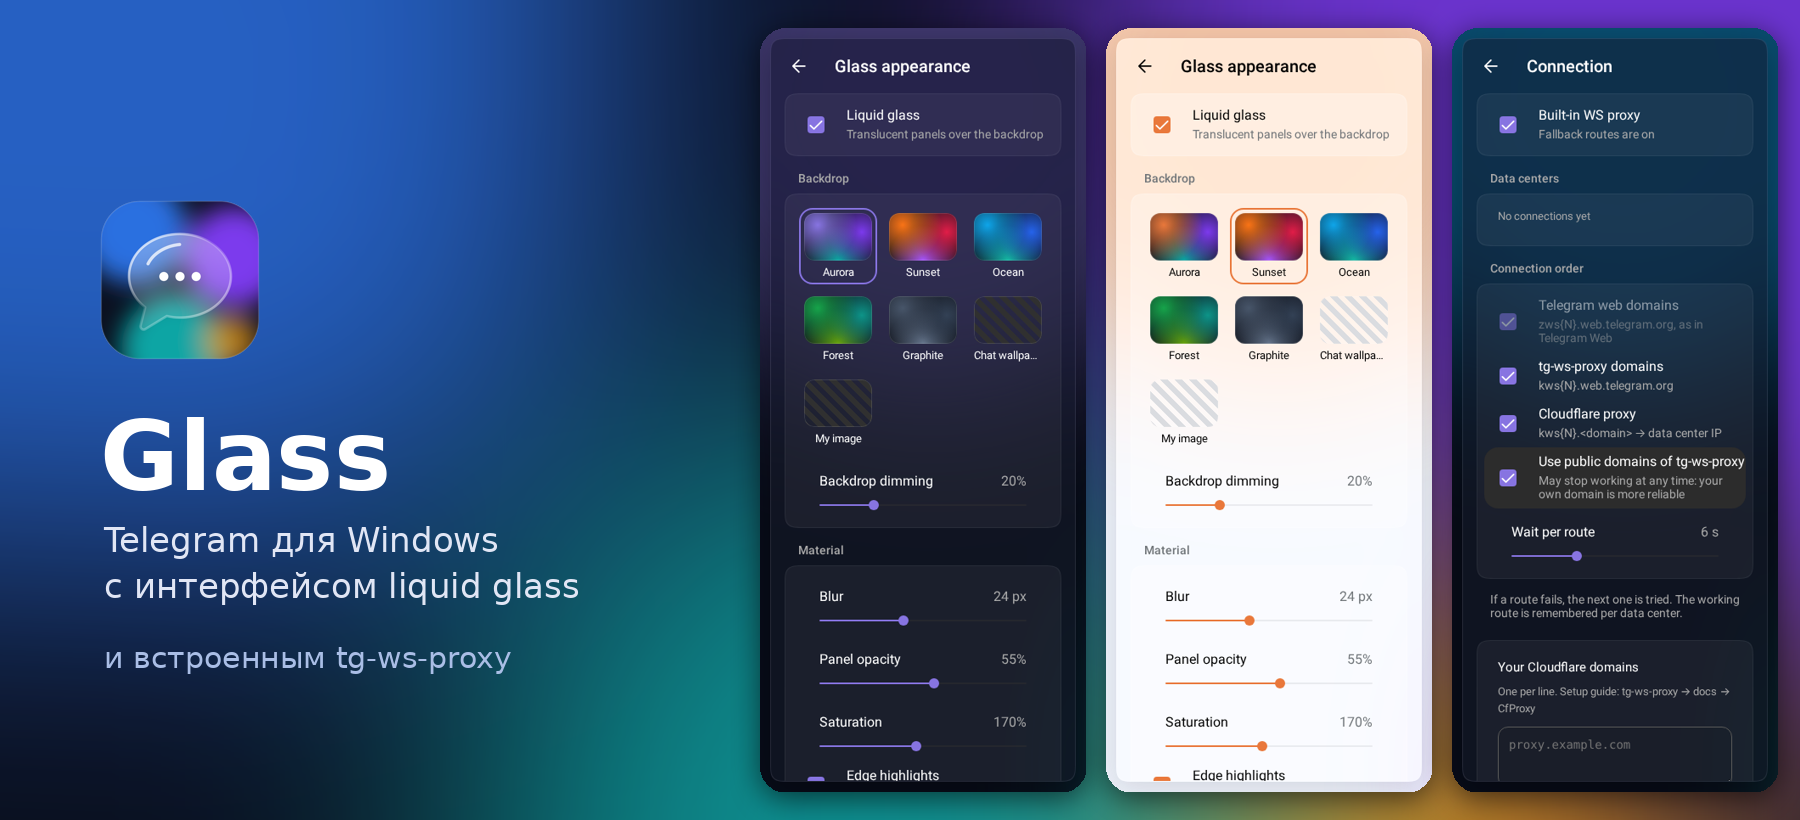
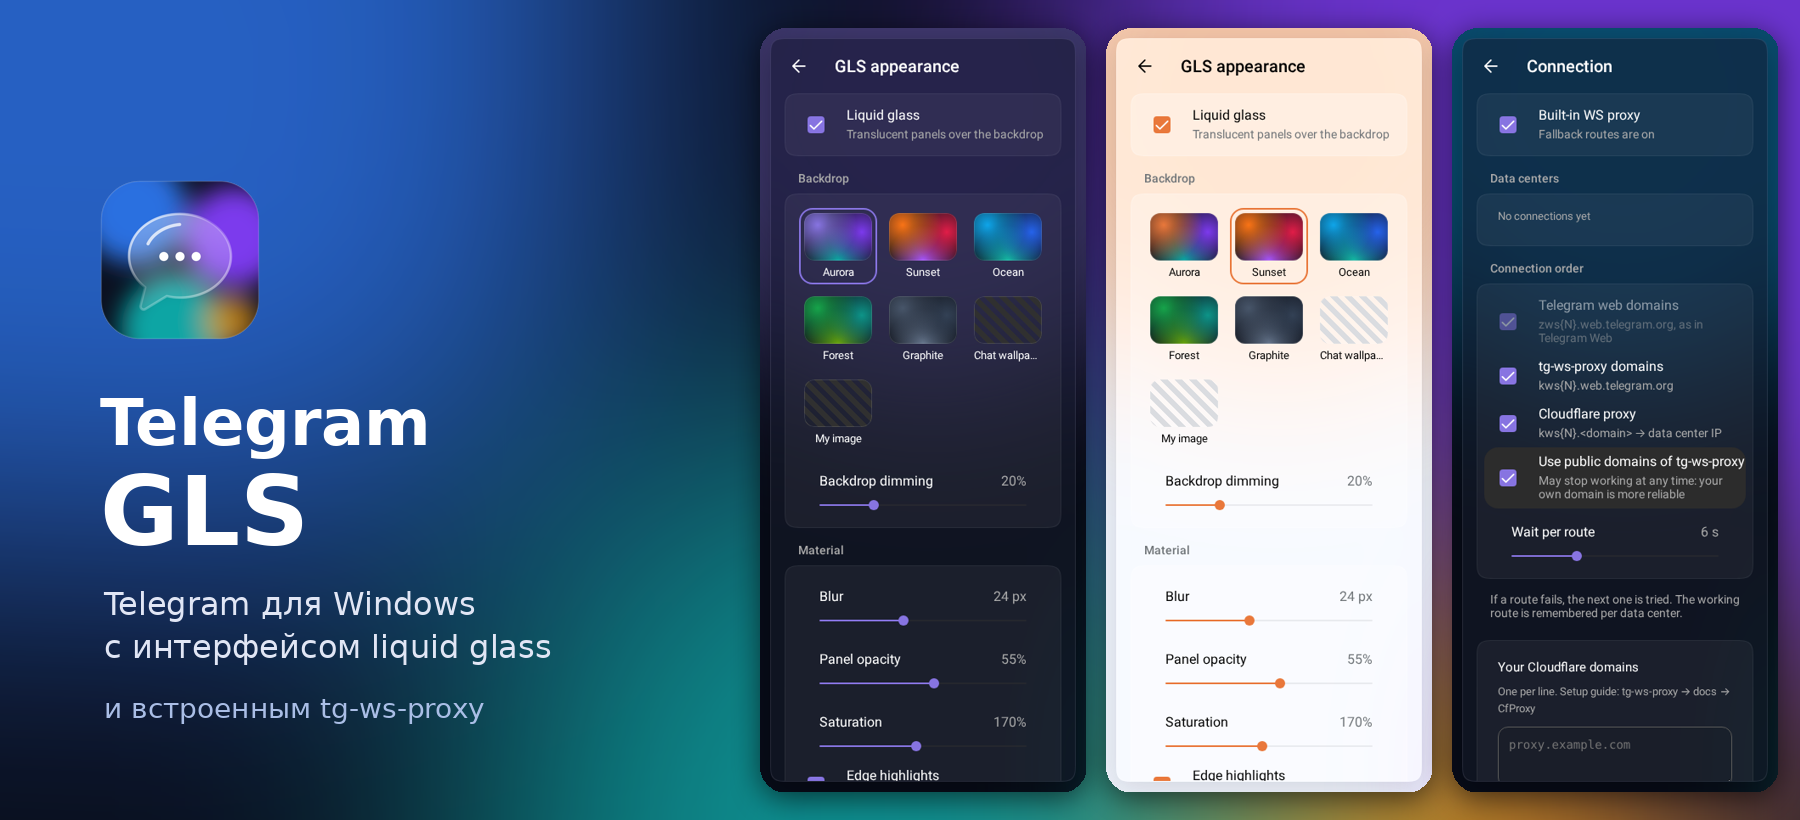
[Glass] App: Rename to Telegram GLS and embed API credentials
Product, window, tray and installer names become Telegram GLS; version 0.2.0
with a new app identifier. Builds embed the app's api_id and api_hash, so the
first-run key screen only appears in builds without them. README, screenshots
and release notes follow the new name.

Claude-Session: https://claude.ai/code/session_01FAG8QbJifzpdKRneeGNQP6

diff --git a/src/util/glass/glassLang.ts b/src/util/glass/glassLang.ts
@@ -3,7 +3,7 @@ import useLang from '../../hooks/useLang';
 // Strings of Glass-only screens. They are not part of Telegram's translation platform,
 // so Russian and English are bundled here and other languages fall back to English.
 const EN = {
-  MenuGlass: 'Glass appearance',
+  MenuGlass: 'GLS appearance',
   MenuGlassDesc: 'Liquid glass, blur, accent, backdrop',
   MenuConnection: 'Connection',
   MenuConnectionDesc: 'Built-in WS proxy and fallbacks',
@@ -65,7 +65,7 @@ const EN = {
   ProxyApplied: 'New connections use these settings',
   ProxyRefresh: 'Refresh',
   ProxyCredits: 'Routes are ported from tg-ws-proxy by Flowseal (MIT).',
-  ApiTitle: 'Connect Glass to Telegram',
+  ApiTitle: 'Connect Telegram GLS',
   ApiDesc: 'Every Telegram client needs its own api_id and api_hash. '
     + 'Get them for free at my.telegram.org → API development tools. They are stored only on this computer.',
   ApiId: 'api_id',
@@ -77,7 +77,7 @@ const EN = {
 };
 
 const RU: typeof EN = {
-  MenuGlass: 'Оформление Glass',
+  MenuGlass: 'Оформление GLS',
   MenuGlassDesc: 'Стекло, размытие, акцент, фон',
   MenuConnection: 'Подключение',
   MenuConnectionDesc: 'Встроенный WS-прокси и запасные маршруты',
@@ -140,7 +140,7 @@ const RU: typeof EN = {
   ProxyApplied: 'Новые соединения используют эти настройки',
   ProxyRefresh: 'Обновить',
   ProxyCredits: 'Маршруты перенесены из tg-ws-proxy от Flowseal (MIT).',
-  ApiTitle: 'Подключение Glass к Telegram',
+  ApiTitle: 'Подключение Telegram GLS',
   ApiDesc: 'Каждому клиенту Telegram нужны свои api_id и api_hash. '
     + 'Получить их бесплатно можно на my.telegram.org → API development tools. '
     + 'Они хранятся только на этом компьютере.',

diff --git a/src/config.ts b/src/config.ts
@@ -34,7 +34,7 @@ export const BETA_CHANGELOG_URL = 'https://telegra.ph/WebA-Beta-03-20';
 export const DEBUG_GRAMJS = false;
 
 export const PAGE_TITLE = import.meta.env.TG_APP_TITLE;
-export const PAGE_TITLE_TAURI = 'Glass';
+export const PAGE_TITLE_TAURI = 'Telegram GLS';
 export const TELEGRAM_API_ID = Number(import.meta.env.TG_TELEGRAM_API_ID);
 export const TELEGRAM_API_HASH = import.meta.env.TG_TELEGRAM_API_HASH;
 export const TEST_SESSION = import.meta.env.TG_TEST_SESSION;

diff --git a/tauri/src/tray/mod.rs b/tauri/src/tray/mod.rs
@@ -25,9 +25,9 @@ pub(crate) static TRAY_BASE_ICON: LazyLock<Image<'static>> =
 
 // Menu constants
 pub const MENU_ITEM_QUIT_ID: &str = "quit";
-pub const MENU_ITEM_QUIT_LABEL: &str = "Quit Glass";
+pub const MENU_ITEM_QUIT_LABEL: &str = "Quit Telegram GLS";
 pub const MENU_ITEM_OPEN_ID: &str = "open";
-pub const MENU_ITEM_OPEN_LABEL: &str = "Open Glass";
+pub const MENU_ITEM_OPEN_LABEL: &str = "Open Telegram GLS";
 
 static MENU_TRANSLATIONS: LazyLock<std::sync::Mutex<HashMap<String, String>>> =
   LazyLock::new(|| std::sync::Mutex::new(HashMap::new()));

diff --git a/tauri/src/lib.rs b/tauri/src/lib.rs
@@ -67,7 +67,7 @@ pub static LAST_URL: LazyLock<std::sync::Mutex<String>> =
 
 pub const DEFAULT_WINDOW_TITLE: &str = match std::option_env!("APP_TITLE") {
   Some(title) => title,
-  None => "Glass",
+  None => "Telegram GLS",
 };
 
 pub const BASE_URL: &str = match std::option_env!("BASE_URL") {

diff --git a/README.md b/README.md
@@ -1,6 +1,6 @@
 <div align="center">
 
-<img src="docs/glass/hero.png" alt="Glass — Telegram для Windows с интерфейсом liquid glass" width="100%">
+<img src="docs/glass/hero.png" alt="Telegram GLS — Telegram для Windows с интерфейсом liquid glass" width="100%">
 
 <br>
 
@@ -15,14 +15,14 @@
 
 ---
 
-**Glass** — клиент Telegram для Windows. Интерфейс построен на официальной веб-версии [Telegram Web A](https://github.com/Ajaxy/telegram-tt), поверх добавлен стеклянный дизайн, который настраивается до мелочей. Запасные маршруты подключения из [tg-ws-proxy](https://github.com/Flowseal/tg-ws-proxy) встроены прямо в клиент, без отдельной программы и без настройки прокси.
+**Telegram GLS** — клиент Telegram для Windows. Интерфейс построен на официальной веб-версии [Telegram Web A](https://github.com/Ajaxy/telegram-tt), поверх добавлен стеклянный дизайн, который настраивается до мелочей. Запасные маршруты подключения из [tg-ws-proxy](https://github.com/Flowseal/tg-ws-proxy) встроены прямо в клиент, без отдельной программы и без настройки прокси.
 
 ## Возможности
 
 <table>
 <tr>
-<td width="50%"><img src="docs/glass/appearance-dark.png" alt="Оформление Glass, тёмная тема"></td>
-<td width="50%"><img src="docs/glass/appearance-light.png" alt="Оформление Glass, светлая тема"></td>
+<td width="50%"><img src="docs/glass/appearance-dark.png" alt="Оформление GLS, тёмная тема"></td>
+<td width="50%"><img src="docs/glass/appearance-light.png" alt="Оформление GLS, светлая тема"></td>
 </tr>
 <tr>
 <td><b>Liquid glass.</b> Полупрозрачные панели с размытием и бликами по краям парят над фоном. Есть преломление, как у настоящего стекла.</td>
@@ -30,10 +30,10 @@
 </tr>
 <tr>
 <td><img src="docs/glass/connection.png" alt="Настройки подключения"></td>
-<td><img src="docs/glass/settings.png" alt="Настройки Glass"></td>
+<td><img src="docs/glass/settings.png" alt="Настройки Telegram GLS"></td>
 </tr>
 <tr>
-<td><b>Встроенный обход блокировок.</b> Если один маршрут не отвечает, Glass сам переключается на следующий и запоминает рабочий.</td>
+<td><b>Встроенный обход блокировок.</b> Если один маршрут не отвечает, Telegram GLS сам переключается на следующий и запоминает рабочий.</td>
 <td><b>Всё из Telegram Web.</b> Папки, темы, реакции, истории, звонки, несколько аккаунтов. Живёт в трее, показывает счётчик непрочитанных.</td>
 </tr>
 </table>
@@ -50,28 +50,19 @@
 
 ## Установка
 
-1. Скачайте **Glass_x.y.z_x64-setup.exe** из [последнего релиза](https://github.com/mantraa0/glass/releases/latest). Сборки после каждого изменения лежат в [Actions](https://github.com/mantraa0/glass/actions/workflows/build-windows.yml) (артефакт **Glass-windows-x64**).
+1. Скачайте **Telegram.GLS_x.y.z_x64-setup.exe** из [последнего релиза](https://github.com/mantraa0/glass/releases/latest). Сборки после каждого изменения лежат в [Actions](https://github.com/mantraa0/glass/actions/workflows/build-windows.yml) (артефакт **Telegram-GLS-windows-x64**).
 2. Запустите установщик. Права администратора не нужны.
 3. Установщик пока не подписан, поэтому Windows SmartScreen предупредит о нём: нажмите **Подробнее → Выполнить в любом случае**.
 
-<img src="docs/glass/first-run.png" alt="Первый запуск" align="right" width="360">
+### Первый запуск
 
-### api_id и api_hash
+Ключи приложения Telegram (`api_id` и `api_hash`) уже встроены в сборку, поэтому просто войдите в аккаунт по QR-коду или номеру телефона.
 
-Любому клиенту Telegram нужны собственные ключи приложения. При первом запуске Glass попросит их и сохранит только на вашем компьютере.
-
-1. Войдите на [my.telegram.org](https://my.telegram.org). Код придёт в приложение Telegram, не по SMS.
-2. Откройте **API development tools**.
-3. Заполните форму: App title `Glass`, Short name любое (5–32 латинских символа), Platform `Desktop`.
-4. Скопируйте **api_id** и **api_hash**.
-
-Если сайт отвечает просто «ERROR», выключите VPN и блокировщик рекламы или зайдите с телефона.
-
-<br clear="right">
+Если вы собираете свою версию без ключей, приложение спросит их при первом запуске. Получить свои можно на [my.telegram.org](https://my.telegram.org) → **API development tools**.
 
 ## Подключение и обход блокировок
 
-Telegram Web уже работает через WebSocket. Это тот же транспорт, на который tg-ws-proxy переводит Telegram Desktop. Поэтому Glass не запускает локальный прокси, а сразу пробует цепочку адресов:
+Telegram Web уже работает через WebSocket. Это тот же транспорт, на который tg-ws-proxy переводит Telegram Desktop. Поэтому Telegram GLS не запускает локальный прокси, а сразу пробует цепочку адресов:
 
 ```text
 zws{N}.web.telegram.org      ← как обычный Telegram Web
@@ -86,13 +77,13 @@ kws{N}.<ваш домен>           ← Cloudflare-прокси (свои и п
 
 ## Сборка
 
-Установщик собирается в GitHub Actions на `windows-latest` при каждом пуше в `main`. Когда в `tauri/tauri.conf.json` появляется новая `version`, сборка сама публикует релиз `v<версия>` с установщиком. Чтобы вшить ключи в свою сборку, добавьте секреты репозитория `TELEGRAM_API_ID` и `TELEGRAM_API_HASH`. Делайте так только для личных сборок: ключи попадут в код приложения.
+Установщик собирается в GitHub Actions на `windows-latest` при каждом пуше в `main`. Когда в `tauri/tauri.conf.json` появляется новая `version`, сборка сама публикует релиз `v<версия>` с установщиком. Ключи приложения заданы в `.github/workflows/build-windows.yml`. Секреты репозитория `TELEGRAM_API_ID` и `TELEGRAM_API_HASH` переопределяют их.
 
 Локально на Windows (Node.js 24, Rust stable):
 
 ```powershell
 npm ci
-copy .env.example .env    # BASE_URL=http://localhost:47613/  APP_TITLE=Glass
+copy .env.example .env    # BASE_URL=http://localhost:47613/  APP_TITLE=Telegram GLS
 npm run build:production
 npx tauri build --bundles nsis
 ```
@@ -104,9 +95,9 @@ npx tauri build --bundles nsis
 | --- | --- |
 | `src/styles/glass.scss` | Стеклянный слой поверх стилей Web A |
 | `src/util/glass/` | Настройки оформления, фон, акцент, строки RU/EN |
-| `src/components/left/settings/SettingsGlass*.tsx` | Экраны «Оформление Glass» и «Подключение» |
+| `src/components/left/settings/SettingsGlass*.tsx` | Экраны «Оформление GLS» и «Подключение» |
 | `src/lib/gramjs/extensions/wsRoutes.ts` | Цепочка маршрутов, перенесённая из tg-ws-proxy |
-| `src/components/auth/GlassApiSetup.tsx` | Ввод api_id/api_hash при первом запуске |
+| `src/components/auth/GlassApiSetup.tsx` | Ввод api_id/api_hash для сборок без встроенных ключей |
 | `tauri/` | Оболочка: название, иконки, раздача приложения с `localhost:47613`, установщик NSIS |
 | `.github/workflows/build-windows.yml` | Сборка установщика |
 
@@ -118,4 +109,4 @@ npx tauri build --bundles nsis
 - [tg-ws-proxy](https://github.com/Flowseal/tg-ws-proxy) от Flowseal — схема маршрутов и Cloudflare-фолбэки (MIT).
 - [Tauri](https://tauri.app) — десктопная оболочка.
 
-Glass — неофициальный клиент. Он не связан с Telegram и не одобрен им. Распространяется по лицензии [GPL-3.0](LICENSE).
+Telegram GLS — неофициальный клиент. Он не связан с Telegram и не одобрен им. Распространяется по лицензии [GPL-3.0](LICENSE).

diff --git a/.github/release-notes.md b/.github/release-notes.md
@@ -1,13 +1,13 @@
 ## Установка
 
-1. Скачайте **Glass_…_x64-setup.exe** ниже, в разделе Assets.
-2. Запустите его. Права администратора не нужны, Glass ставится только для текущего пользователя.
+1. Скачайте **Telegram.GLS_…_x64-setup.exe** ниже, в разделе Assets.
+2. Запустите его. Права администратора не нужны, Telegram GLS ставится только для текущего пользователя.
 3. Установщик пока не подписан, поэтому Windows SmartScreen предупредит о нём: нажмите **Подробнее → Выполнить в любом случае**.
-4. При первом запуске введите `api_id` и `api_hash` с [my.telegram.org](https://my.telegram.org) (раздел API development tools), затем войдите в Telegram по QR-коду или номеру.
+4. Войдите в Telegram по QR-коду или номеру телефона. Ключи приложения уже встроены, вводить ничего не нужно.
 
 ## Что внутри
 
-- Интерфейс liquid glass. Фон, размытие, плотность, скругления, акцентный цвет и стиль сообщений настраиваются в **Настройки → Оформление Glass**.
+- Интерфейс liquid glass. Фон, размытие, плотность, скругления, акцентный цвет и стиль сообщений настраиваются в **Настройки → Оформление GLS**.
 - Встроенный обход блокировок: маршруты tg-ws-proxy (веб-домены Telegram → kws → Cloudflare-прокси → Cloudflare Worker). Настройки и статус подключения — в **Настройки → Подключение**.
 - Всё из Telegram Web A: папки, темы, реакции, истории, звонки, несколько аккаунтов, трей и счётчик непрочитанных.
 
